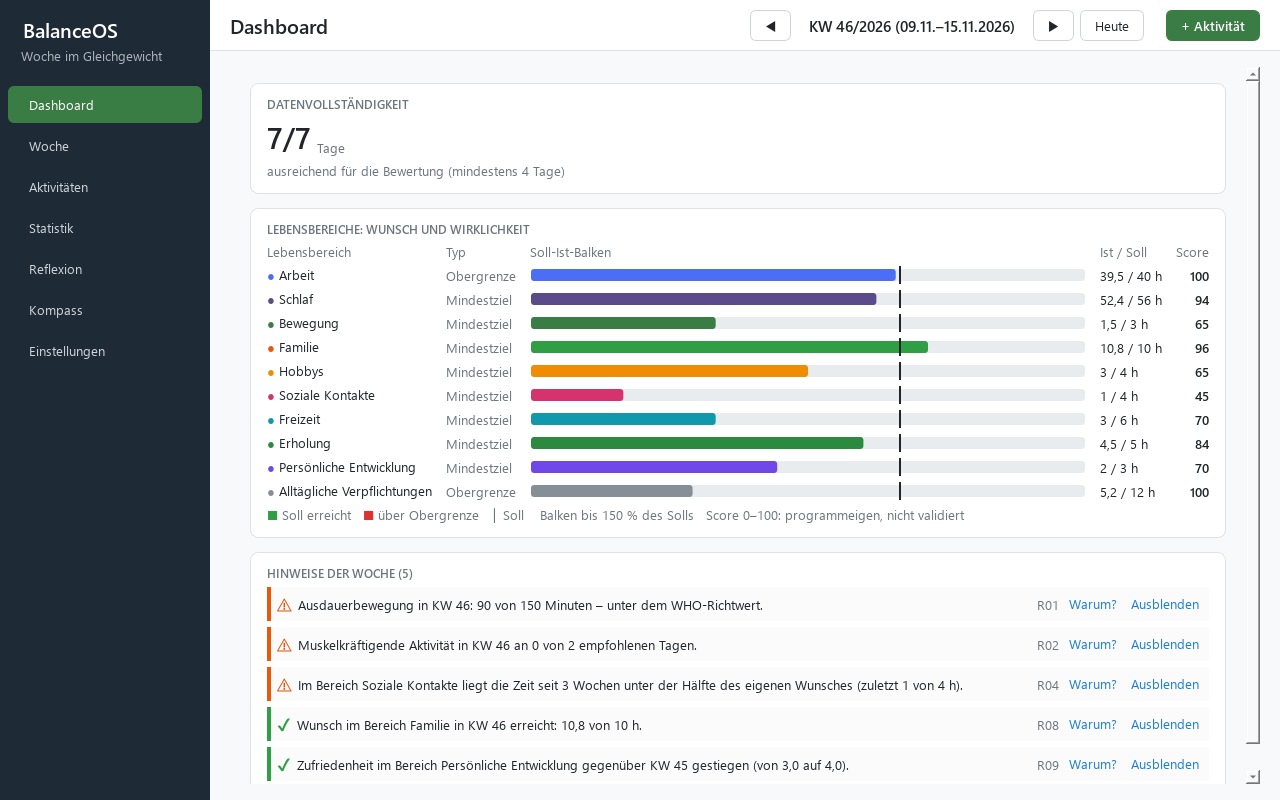
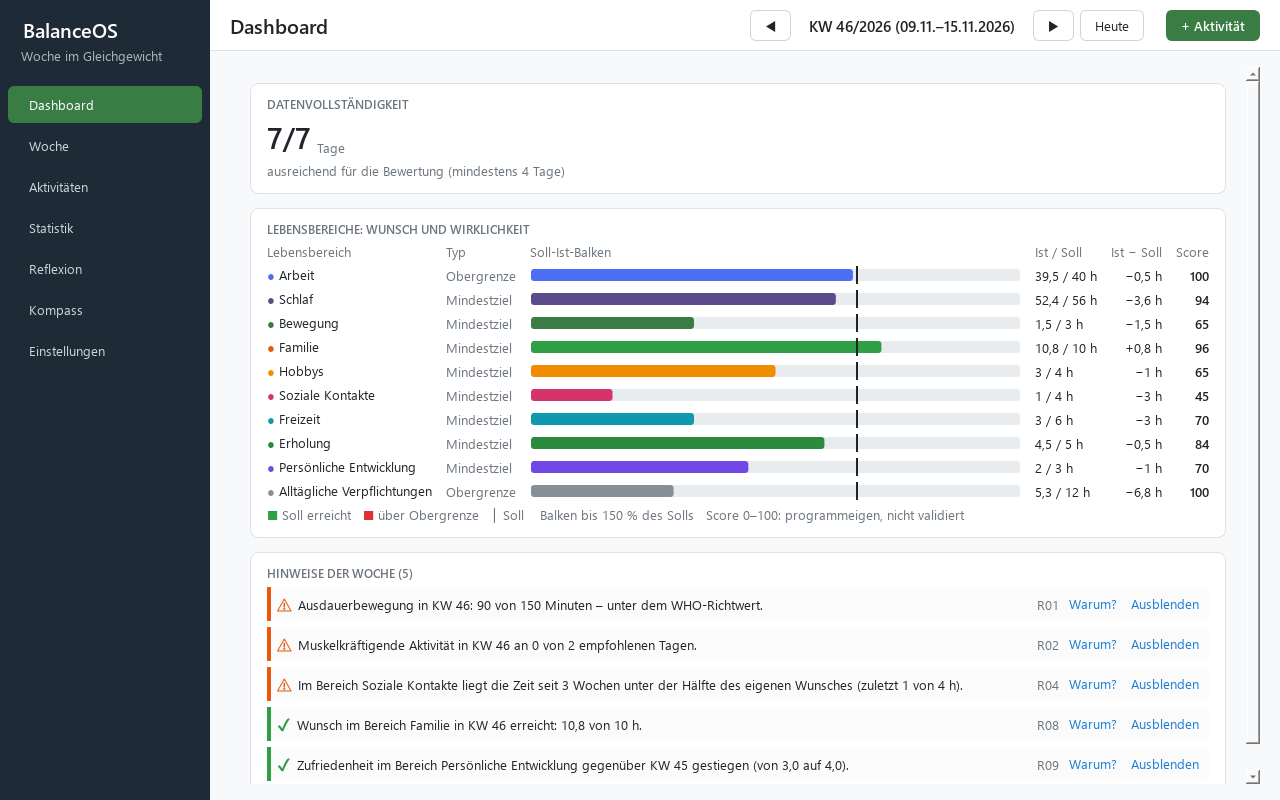
Phase 3: Benutzeranleitung und Änderungstabelle an die korrigierte Anwendung angepasst

diff --git a/docs/latex/01_Projektdokumentation/kapitel/05_Benutzeranleitung.tex b/docs/latex/01_Projektdokumentation/kapitel/05_Benutzeranleitung.tex
@@ -11,7 +11,7 @@ Diese Anleitung beschreibt, wie Nutzer:innen BalanceOS unter Windows installiere
 \subsection{Systemvoraussetzungen und Installation}
 BalanceOS läuft unter Windows~10 und Windows~11 in der 64-Bit-Version. Eine Internetverbindung braucht die Anwendung nicht, auch keinen Datenbankserver und keine weitere Software. Die Daten speichert sie in einer lokalen SQLite-Datei.
 
-Beim ersten Start legt BalanceOS die Datenbank \texttt{balanceos.db} im Ordner \texttt{\%APPDATA\%\textbackslash BalanceOS} an, also in der Regel unter \texttt{C:\textbackslash Users\textbackslash <Name>\textbackslash AppData\textbackslash Roaming\textbackslash BalanceOS}. Den genauen Pfad zeigt die Anwendung unter \enquote{Einstellungen} im Reiter \enquote{Daten}. Alle Einträge bleiben auf dem Rechner; BalanceOS überträgt nichts ins Internet. Zur Deinstallation werden die Datei \texttt{BalanceOS.exe} und der Ordner \texttt{\%APPDATA\%\textbackslash BalanceOS} gelöscht, bei Variante~B zusätzlich der Projektordner mit der virtuellen Umgebung \texttt{.venv}. Exportierte Dateien liegen an dem Ort, den Nutzer:innen beim Export gewählt haben, und werden dabei nicht entfernt.
+Beim ersten Start legt BalanceOS die Datenbank \texttt{balanceos.db} im Ordner \texttt{\%APPDATA\%\textbackslash BalanceOS} an, also in der Regel unter \texttt{C:\textbackslash Users\textbackslash <Name>\textbackslash AppData\textbackslash Roaming\textbackslash BalanceOS}. Den genauen Pfad zeigt die Anwendung unter \enquote{Einstellungen} im Reiter \enquote{Daten}. Alle Einträge bleiben auf dem Rechner; BalanceOS überträgt nichts ins Internet. Tritt im Betrieb ein unerwarteter Fehler auf, etwa weil die Datenbank gesperrt ist, zeigt BalanceOS eine Meldung und schreibt die Einzelheiten in die Datei \texttt{fehler.log} im selben Ordner. BalanceOS läuft je Benutzerkonto nur einmal; ein zweiter Start weist auf das bereits geöffnete Fenster hin. Zur Deinstallation werden die Datei \texttt{BalanceOS.exe} und der Ordner \texttt{\%APPDATA\%\textbackslash BalanceOS} gelöscht, bei Variante~B zusätzlich der Projektordner mit der virtuellen Umgebung \texttt{.venv}. Exportierte Dateien liegen an dem Ort, den Nutzer:innen beim Export gewählt haben, und werden dabei nicht entfernt.
 
 \subsubsection{Variante A: Programmdatei (empfohlen)}
 Die Anwendung liegt als einzelne Datei \texttt{BalanceOS.exe} im Ordner \texttt{app/release} des Repositorys (\url{\GitHubURL}) und der abgegebenen ZIP-Datei. Die Datei wurde mit PyInstaller erstellt \parencite{pyinstaller} und enthält bereits alles, was zur Ausführung nötig ist: den Python-Interpreter, die Oberflächenbibliothek PySide6 \parencite{pyside6} mit den benötigten Qt-Bestandteilen und die SQLite-Anbindung aus der Python-Standardbibliothek. Python muss deshalb nicht installiert sein, und ein Installationsprogramm gibt es nicht.
@@ -43,7 +43,7 @@ Das Hauptfenster hat links eine Seitenleiste mit den sieben Seiten \enquote{Dash
 
 Für einen ersten Eindruck eignen sich die Demodaten. Sie enthalten acht Wochen aus dem Alltag der Persona Sarah Keller und sind so gewählt, dass jede Regel R01 bis R10 mindestens einmal einen Hinweis erzeugt. Der Rundgang umfasst folgende Schritte:
 \begin{enumerate}
-  \item \textbf{Demodaten laden.} Ein Klick auf \enquote{Demodaten laden} lädt die Beispielwochen. Eine Meldung bestätigt das und nennt den Weg zum Entfernen. Hat die aktuelle Woche noch zu wenige Einträge, zeigt das Dashboard die Vorwoche. Es enthält dann die Datenvollständigkeit, je Lebensbereich einen Soll-Ist-Balken mit Score und darunter die Hinweise der Woche (Abbildung~\ref{abb:anleitung-dashboard}).
+  \item \textbf{Demodaten laden.} Ein Klick auf \enquote{Demodaten laden} lädt die Beispielwochen. Eine Meldung bestätigt das und nennt den Weg zum Entfernen. Hat die aktuelle Woche noch zu wenige Einträge, zeigt das Dashboard die Vorwoche. Es enthält dann die Datenvollständigkeit, je Lebensbereich einen Soll-Ist-Balken mit der Abweichung vom Wunsch (Ist − Soll) und dem Score und darunter die Hinweise der Woche (Abbildung~\ref{abb:anleitung-dashboard}). Bei weniger als vier erfassten Tagen steht statt des Scores \enquote{zu wenig Daten}.
   \item \textbf{Aktivität erfassen.} \enquote{+ Aktivität} in der Kopfzeile oder \texttt{Strg+N} öffnet den Dialog \enquote{Aktivität erfassen} (Abbildung~\ref{abb:anleitung-aktivitaet}). Pflichtfelder sind Titel, Lebensbereich und Datum. Die Zeit wird entweder mit \enquote{Beginn und Ende} oder als \enquote{Dauer} angegeben. Zufriedenheit, Belastung und Erholung (1 bis 5), Bewegungsart und Notiz sind freiwillig. \enquote{Speichern} ist erst aktiv, wenn alle Eingaben gültig sind; sonst steht die Fehlermeldung direkt am Feld. Auf der Seite \enquote{Woche} öffnet auch ein Doppelklick auf eine freie Stelle des Kalenders den Dialog, ein Doppelklick auf einen Eintrag öffnet ihn zum Bearbeiten.
   \item \textbf{Hinweis nachvollziehen.} Jeder Hinweis auf dem Dashboard hat die Schaltflächen \enquote{Warum?} und \enquote{Ausblenden}. \enquote{Warum?} öffnet den Dialog \enquote{Warum sehe ich das?} (Abbildung~\ref{abb:anleitung-begruendung}). Er nennt Regel, Modell, Datenbasis, Zeitraum, Schwelle, den eigenen Wert, Quelle, Evidenzart und Grenzen. Mit \enquote{Regel R01 deaktivieren} (je nach Hinweis mit der passenden Kennung) erzeugt die Regel keine Hinweise mehr. Unter \enquote{Einstellungen} im Reiter \enquote{Regeln} lässt sie sich wieder einschalten. \enquote{Ausblenden} entfernt einen Hinweis nur für die gewählte Woche.
   \item \textbf{Wochen vergleichen.} Mit den Pfeilschaltflächen in der Kopfzeile wechseln Nutzer:innen zwischen den Demowochen. Die Seite \enquote{Statistik} zeigt die Scores der letzten acht Wochen als Verlauf.

diff --git a/docs/latex/01_Projektdokumentation/kapitel/07_Aenderungen.tex b/docs/latex/01_Projektdokumentation/kapitel/07_Aenderungen.tex
@@ -63,6 +63,7 @@ Das Feedback zu Phase~2 bewertete Struktur, Methodik und Formalien positiv und n
   Feedback: Wiederholungen zwischen den Dokumenten & Gesundheitsrichtwerte, Persona, Could- und Won't-Listen und doppelte Definitionen durch Verweise auf die Stelle ersetzt, an der sie ausführlich stehen & Projektdokumentation, Kapitel~1 und~6; Spezifikationsdokument, Kapitel~2; Anforderungs- und Architekturdokument \\
   Feedback: Prägnanz einzelner Formulierungen & lange Sätze geteilt, Füllwörter gestrichen, Verweise präzisiert & alle Dokumente \\
   Erkenntnis aus den Systemtests & Eingabefelder ohne verknüpfte Beschriftung ergänzt; Rückfragen zeigen deutsche Knöpfe statt \enquote{Yes} und \enquote{No} & Anwendung; Testdokument, Kapitel~3 \\
+  Erkenntnis aus der Abschlussprüfung & Fehler in mehrschrittigen Bedienabläufen behoben (u.\,a. Doppeltermin nach Verschieben eines Serientermins, Textverlust in der Reflexion); Dashboard zeigt die Abweichung Ist − Soll; kleinere Mindestfenstergröße; Fehlermeldung bei Datenbankfehlern; nur eine Programminstanz; CSV-Export schützt vor Formelausführung & Anwendung; Spezifikationsdokument, Kapitel~4 und~5; Testdokument, Kapitel~2 und~3 \\
   Auslieferung & ausführbare Datei als einzelne Datei ohne ungenutzte Qt-Module in \texttt{app/release} & Projektdokumentation, Abschnitt~5.1 \\
   Fortschritt der Phase~3 & Testdokument, Benutzeranleitung, Anforderungserfüllung und Soll-Ist-Vergleich des Zeitplans ergänzt & Testdokument; Projektdokumentation, Kapitel 3, 5 und 6 \\
 \end{longtable}
